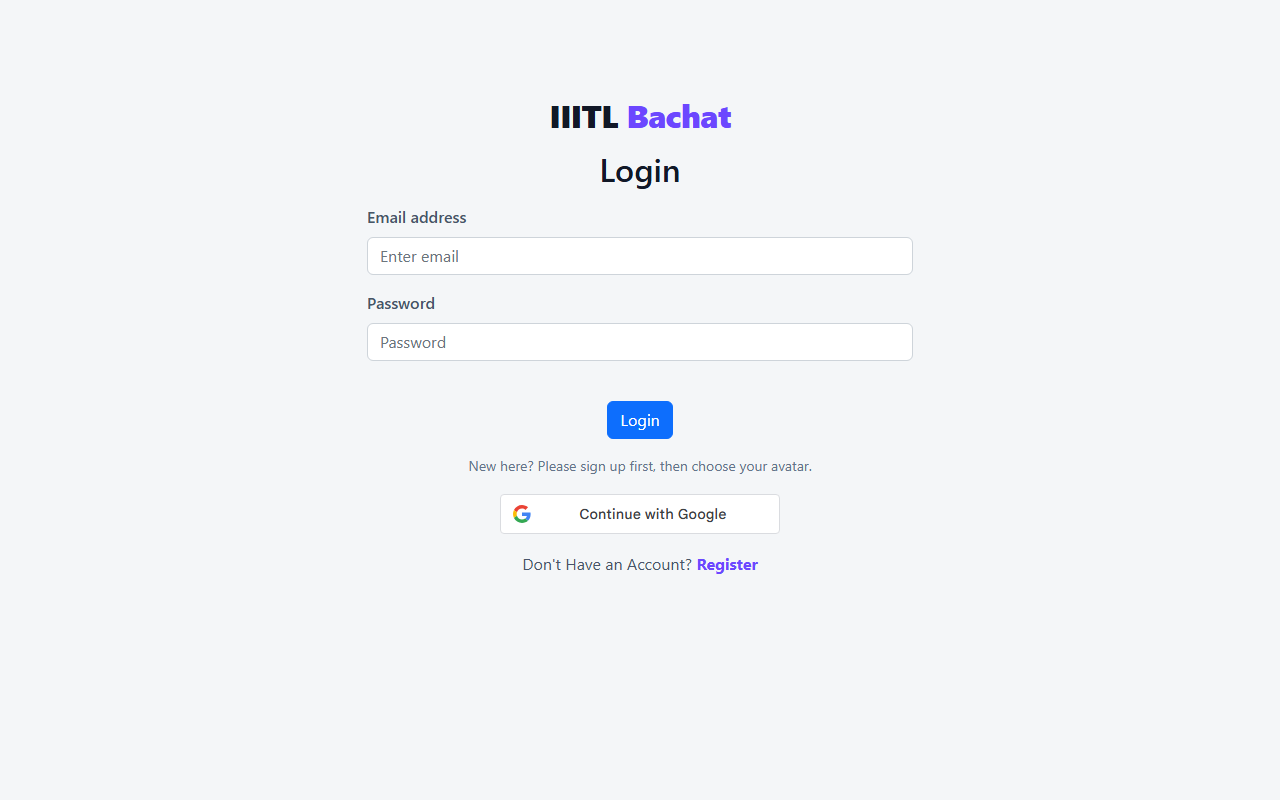
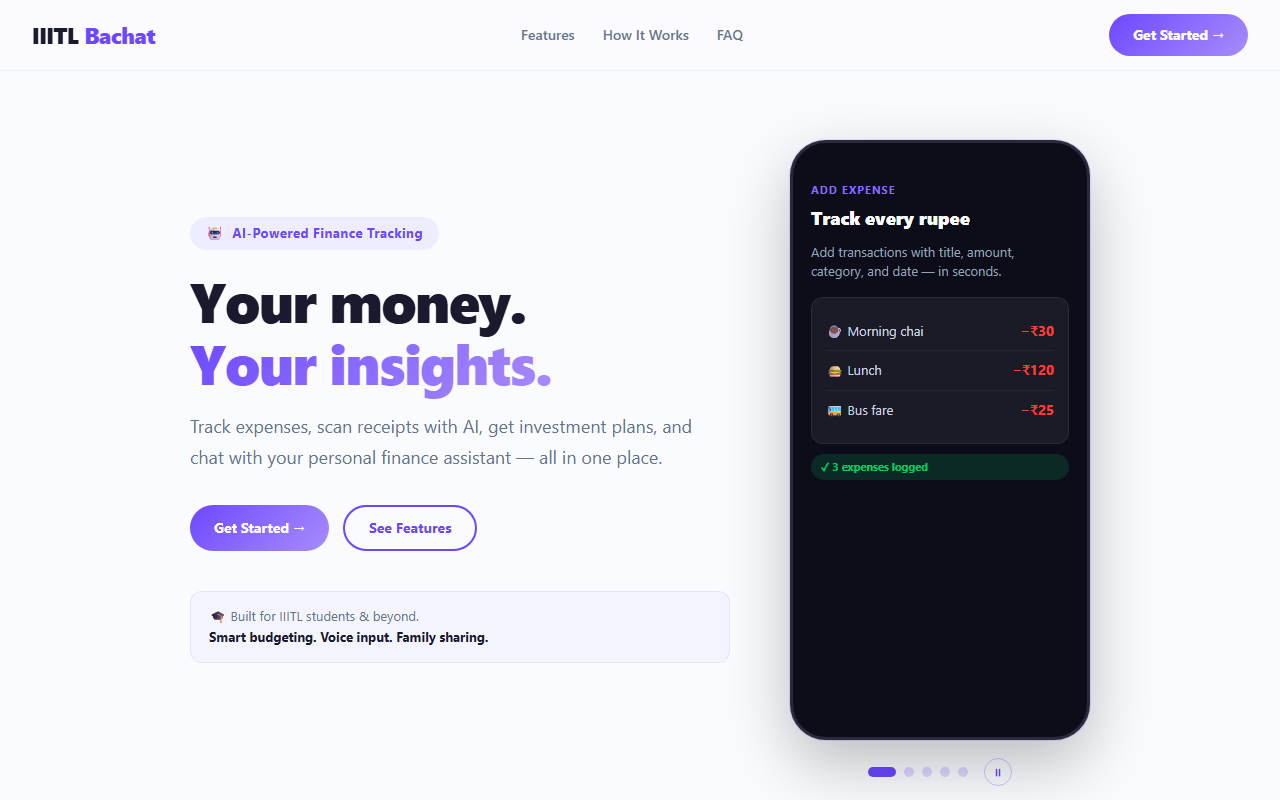
feat: update IIITLBachat live url to root and add personal email to contact section

diff --git a/src/components/sections/ContactSection.tsx b/src/components/sections/ContactSection.tsx
@@ -5,15 +5,21 @@ import { Copy, Check, Mail, Github, Linkedin, ExternalLink, FileText } from "luc
 import { profile } from "@/lib/content/profile";
 
 export function ContactSection() {
-  const [copied, setCopied] = useState(false);
+  const [copiedPrimary, setCopiedPrimary] = useState(false);
+  const [copiedPersonal, setCopiedPersonal] = useState(false);
 
-  const copyEmail = async () => {
+  const copyEmail = async (email: string, isPrimary: boolean) => {
     try {
-      await navigator.clipboard.writeText(profile.contact.email);
-      setCopied(true);
-      setTimeout(() => setCopied(false), 2000);
+      await navigator.clipboard.writeText(email);
+      if (isPrimary) {
+        setCopiedPrimary(true);
+        setTimeout(() => setCopiedPrimary(false), 2000);
+      } else {
+        setCopiedPersonal(true);
+        setTimeout(() => setCopiedPersonal(false), 2000);
+      }
     } catch {
-      // Fallback: show the email clearly
+      // Fallback
     }
   };
 
@@ -58,64 +64,129 @@ export function ContactSection() {
             boxShadow: "var(--shadow-card)",
           }}
         >
-          {/* Email primary */}
-          <div style={{ marginBottom: "2rem" }}>
-            <div
-              style={{
-                fontFamily: "var(--font-mono)",
-                fontSize: "0.7rem",
-                textTransform: "uppercase",
-                letterSpacing: "0.08em",
-                color: "var(--text-muted)",
-                marginBottom: "0.625rem",
-              }}
-            >
-              Primary Contact
-            </div>
-            <div
-              style={{
-                display: "flex",
-                alignItems: "center",
-                gap: "0.75rem",
-                flexWrap: "wrap",
-              }}
-            >
-              <a
-                href={`mailto:${profile.contact.email}`}
+          {/* Emails */}
+          <div style={{ marginBottom: "2rem", display: "flex", flexDirection: "column", gap: "1.25rem" }}>
+            {/* Primary Domain Email */}
+            <div>
+              <div
                 style={{
                   fontFamily: "var(--font-mono)",
-                  fontSize: "1rem",
-                  fontWeight: 500,
-                  color: "var(--text-accent)",
-                  textDecoration: "none",
-                  flex: 1,
-                  minWidth: "200px",
+                  fontSize: "0.7rem",
+                  textTransform: "uppercase",
+                  letterSpacing: "0.08em",
+                  color: "var(--text-muted)",
+                  marginBottom: "0.5rem",
+                }}
+              >
+                Domain Email (Primary)
+              </div>
+              <div
+                style={{
                   display: "flex",
                   alignItems: "center",
-                  gap: "0.5rem",
+                  gap: "0.75rem",
+                  flexWrap: "wrap",
                 }}
-                aria-label="Send email"
               >
-                <Mail size={16} />
-                {profile.contact.email}
-              </a>
-              <button
-                onClick={copyEmail}
-                className="btn btn-secondary"
-                style={{ padding: "0.5rem 0.875rem", fontSize: "0.8125rem" }}
-                aria-label={copied ? "Email copied!" : "Copy email address"}
-              >
-                {copied ? (
-                  <>
-                    <Check size={13} /> Copied!
-                  </>
-                ) : (
-                  <>
-                    <Copy size={13} /> Copy
-                  </>
-                )}
-              </button>
+                <a
+                  href={`mailto:${profile.contact.email}`}
+                  style={{
+                    fontFamily: "var(--font-mono)",
+                    fontSize: "0.9375rem",
+                    fontWeight: 500,
+                    color: "var(--text-accent)",
+                    textDecoration: "none",
+                    flex: 1,
+                    minWidth: "200px",
+                    display: "flex",
+                    alignItems: "center",
+                    gap: "0.5rem",
+                  }}
+                  aria-label="Send email to primary address"
+                >
+                  <Mail size={16} />
+                  {profile.contact.email}
+                </a>
+                <button
+                  onClick={() => copyEmail(profile.contact.email, true)}
+                  className="btn btn-secondary"
+                  style={{ padding: "0.45rem 0.8rem", fontSize: "0.8125rem" }}
+                  aria-label={copiedPrimary ? "Email copied!" : "Copy primary email"}
+                >
+                  {copiedPrimary ? (
+                    <>
+                      <Check size={13} /> Copied!
+                    </>
+                  ) : (
+                    <>
+                      <Copy size={13} /> Copy
+                    </>
+                  )}
+                </button>
+              </div>
             </div>
+
+            {/* Personal / Gmail */}
+            {profile.contact.personalEmail && (
+              <div>
+                <div
+                  style={{
+                    fontFamily: "var(--font-mono)",
+                    fontSize: "0.7rem",
+                    textTransform: "uppercase",
+                    letterSpacing: "0.08em",
+                    color: "var(--text-muted)",
+                    marginBottom: "0.5rem",
+                  }}
+                >
+                  Personal Email
+                </div>
+                <div
+                  style={{
+                    display: "flex",
+                    alignItems: "center",
+                    gap: "0.75rem",
+                    flexWrap: "wrap",
+                  }}
+                >
+                  <a
+                    href={`mailto:${profile.contact.personalEmail}`}
+                    style={{
+                      fontFamily: "var(--font-mono)",
+                      fontSize: "0.9375rem",
+                      fontWeight: 500,
+                      color: "var(--text-secondary)",
+                      textDecoration: "none",
+                      flex: 1,
+                      minWidth: "200px",
+                      display: "flex",
+                      alignItems: "center",
+                      gap: "0.5rem",
+                    }}
+                    aria-label="Send email to personal Gmail"
+                  >
+                    <Mail size={16} />
+                    {profile.contact.personalEmail}
+                  </a>
+                  <button
+                    onClick={() => copyEmail(profile.contact.personalEmail, false)}
+                    className="btn btn-secondary"
+                    style={{ padding: "0.45rem 0.8rem", fontSize: "0.8125rem" }}
+                    aria-label={copiedPersonal ? "Email copied!" : "Copy personal email"}
+                  >
+                    {copiedPersonal ? (
+                      <>
+                        <Check size={13} /> Copied!
+                      </>
+                    ) : (
+                      <>
+                        <Copy size={13} /> Copy
+                      </>
+                    )}
+                  </button>
+                </div>
+              </div>
+            )}
           </div>
 
           <div className="divider" style={{ marginBottom: "2rem" }} />

diff --git a/src/lib/content/projects.ts b/src/lib/content/projects.ts
@@ -253,7 +253,7 @@ export const projects: Project[] = [
     description:
       "A multilingual personal and family finance platform with voice expense entry (Sarvam AI), collaborative expense circles, receipt extraction, anomaly detection, and an AI finance chatbot.",
     accentColor: "#A3E6C5",
-    liveUrl: "https://iiitl-bachat.vercel.app/login",
+    liveUrl: "https://iiitl-bachat.vercel.app/",
     githubUrl: "https://github.com/khushalmidha/IIITLBachat",
     screenshotPath: "/screenshots/iiitlbachat.png",
     stack: [
@@ -344,7 +344,7 @@ export const projects: Project[] = [
         "Collaborative family expense circles with split tracking",
         "Overspend anomaly detection against weekly budget baselines",
         "Finance chatbot with read-only access to personal expense history",
-        "Note: the app is accessible at the login page; no authentication bypass",
+        "Note: the app is accessible at https://iiitl-bachat.vercel.app/",
       ],
     },
   },

diff --git a/scripts/capture-screenshots.ts b/scripts/capture-screenshots.ts
@@ -31,11 +31,10 @@ const PROJECTS = [
   },
   {
     slug: "iiitlbachat",
-    // Captures the login page honestly — no auth bypass
-    url: "https://iiitl-bachat.vercel.app/login",
+    url: "https://iiitl-bachat.vercel.app/",
     filename: "iiitlbachat.png",
-    waitFor: "networkidle",
-    timeout: 15000,
+    waitFor: "domcontentloaded",
+    timeout: 20000,
   },
 ] as const;
 

diff --git a/src/lib/content/profile.ts b/src/lib/content/profile.ts
@@ -23,6 +23,7 @@ export const profile = {
   },
   contact: {
     email: "khushal@khushalmidha.tech",
+    personalEmail: "midhakhushal5@gmail.com",
     alternateEmail: "khushalmidha@khushalmidha.tech",
     phone: "+91 90507 40836",
     showPhone: false, // set to true to make phone visible
